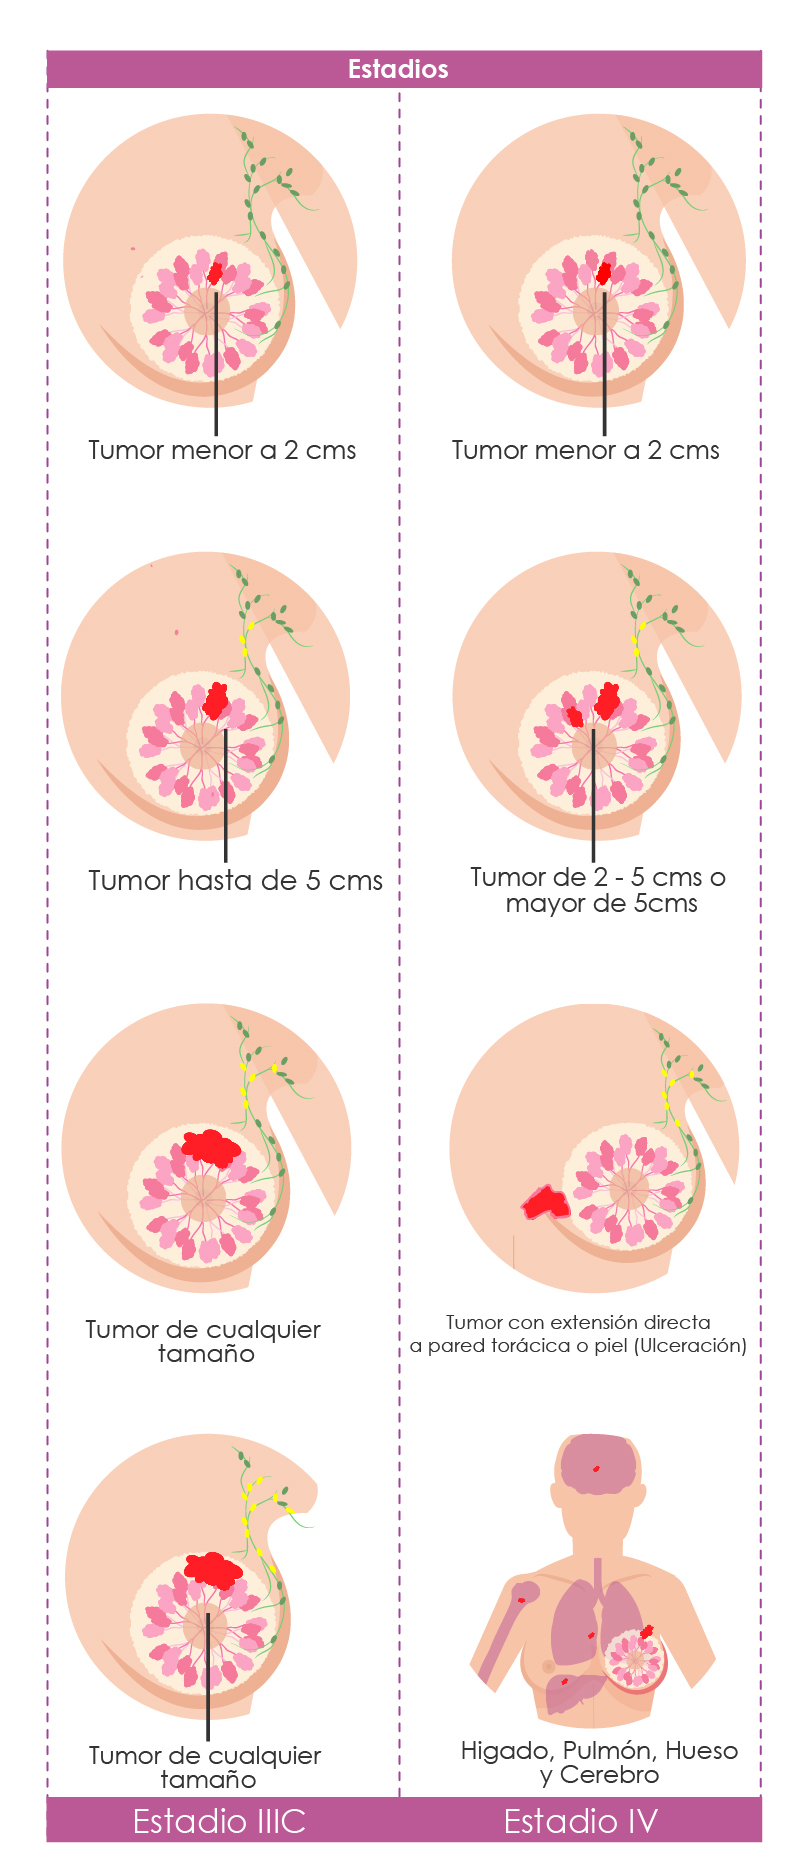
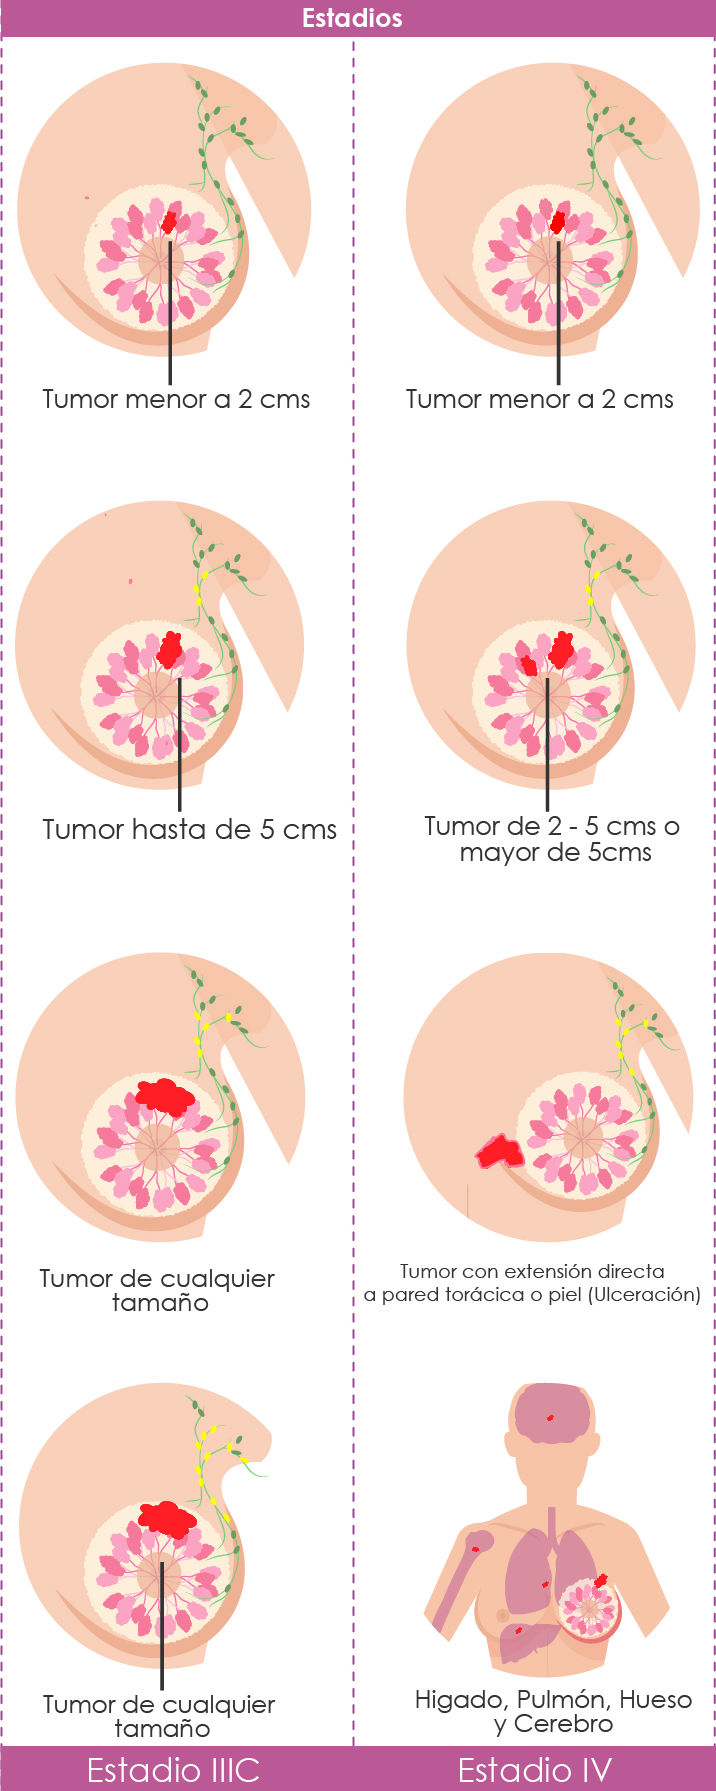
Se edita la infografia y se le coloca un fondo verde claro debajo

diff --git a/vista/css/style.css b/vista/css/style.css
@@ -24,7 +24,7 @@ body {
 
 a {
   text-decoration: none;
-  color: #4d4d4d;
+  color: #60c160;
 }
 a:not([class]):hover {
   text-decoration: underline;
@@ -1279,6 +1279,22 @@ h6 {
 }
 .glosario__tabla tbody tr:hover td:last-of-type {
   color: rgba(0, 50, 50, 0.8);
+}
+
+.estadificacion {
+  background-color: rgba(96, 193, 96, 0.5);
+  padding: 40px 10px;
+}
+.estadificacion__img {
+  display: block;
+  margin: 0 auto;
+  width: 100%;
+  max-width: var(--width);
+  padding: 10px;
+  background-color: white;
+}
+.estadificacion__img--mediana {
+  --width: 500px;
 }
 
 [type="search"],

diff --git a/recursos/activos/sass/_main.scss b/recursos/activos/sass/_main.scss
@@ -1128,7 +1128,7 @@
 .glosario {
   overflow: auto;
   padding-bottom: 20px;
-  
+
   &__tabla {
     width: 100%;
     border-collapse: collapse;
@@ -1184,6 +1184,24 @@
           }
         }
       }
+    }
+  }
+}
+
+.estadificacion {
+  background-color: rgba($color-secundario-4, 0.5);
+  padding: 40px 10px;
+
+  &__img {
+    display: block;
+    margin: 0 auto;
+    width: 100%;
+    max-width: var(--width);
+    padding: 10px;
+    background-color: white;
+
+    &--mediana {
+      --width: 500px;
     }
   }
 }

diff --git a/recursos/activos/sass/_defaults.scss b/recursos/activos/sass/_defaults.scss
@@ -39,7 +39,7 @@ body {
 // Enlaces
 a {
   text-decoration: none;
-  color: $color-base;
+  color: $color-secundario-4;
 
   &:not([class]) {
     &:hover {

diff --git a/app/php/modulos/herramientas.php b/app/php/modulos/herramientas.php
@@ -257,11 +257,11 @@ HTML;
       </p>
 
       <p class="text text--justify">
-        El sistema de estadificación más frecuentemente utilizado para el cáncer de mama es el TNM, aceptado por la American JointCommitte (AJCC) y la Unión Internacional de Control de Cáncer (UICC). <a href="https://www.uicc.org/resources/tnm" target="_blank">https://www.uicc.org/resources/tnm</a>
+        El sistema de estadificación más frecuentemente utilizado para el cáncer de mama es el TNM, aceptado por la American JointCommitte (AJCC) y la <a href="https://www.uicc.org/resources/tnm" target="_blank">Unión Internacional de Control de Cáncer (UICC).</a>
       </p>
 
       <p class="text text--justify">
-        La categoría  T se basa en el tamaño del tumor en la mama (tumor primario). Los números de T más altos significan un tumor más grande y/o una propagación más extensa a los tejidos vecinos de la mama.
+        La categoría  <strong>T</strong> se basa en el tamaño del tumor en la mama (tumor primario). Los números de T más altos significan un tumor más grande y/o una propagación más extensa a los tejidos vecinos de la mama.
       </p>
 
       <p class="text text--justify">
@@ -367,8 +367,9 @@ HTML;
       <p><i>American Joint Committee on Cancer (AJCC) 2017.Cancer Staging Handbook from the AJCC Cancer Staging Manual, Eighth Edition.</i></p>
 
       <hr>
-
-      <img src="multimedia/img/inforgrafia estadiosfinal-01.jpg" alt="Estadios">
+      <div class="estadificacion">
+        <img class="estadificacion__img estadificacion__img--mediana" src="multimedia/img/inforgrafia estadiosfinal-01.jpg?v1" alt="Estadios">
+      </div>
     </div>
 HTML;
 
